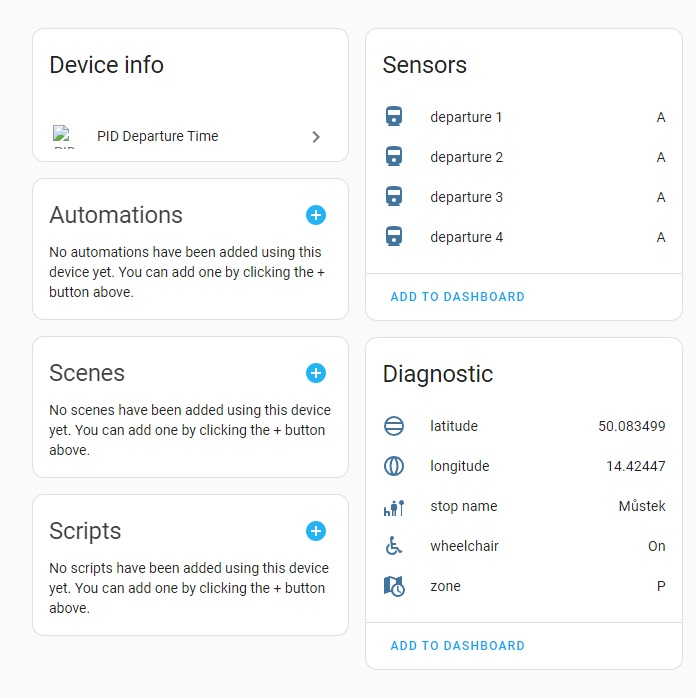
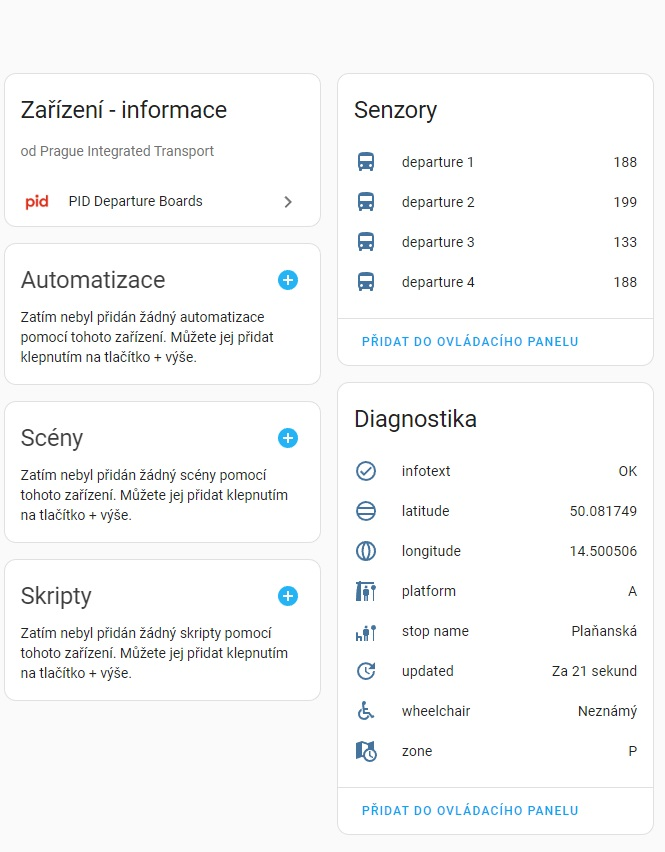
Update readme.

diff --git a/readme.md b/readme.md
@@ -43,3 +43,5 @@ The success dialog will appear or an error will be displayed in the popup.
 The repo includes example card based on [Flex-table-card](https://github.com/custom-cards/flex-table-card) for display on dashboard.
 
 Just modify the headline and the departure entity name - number in the name shall be replaced by * to include all departures.
+
+![card](print3.jpg "Card") 
